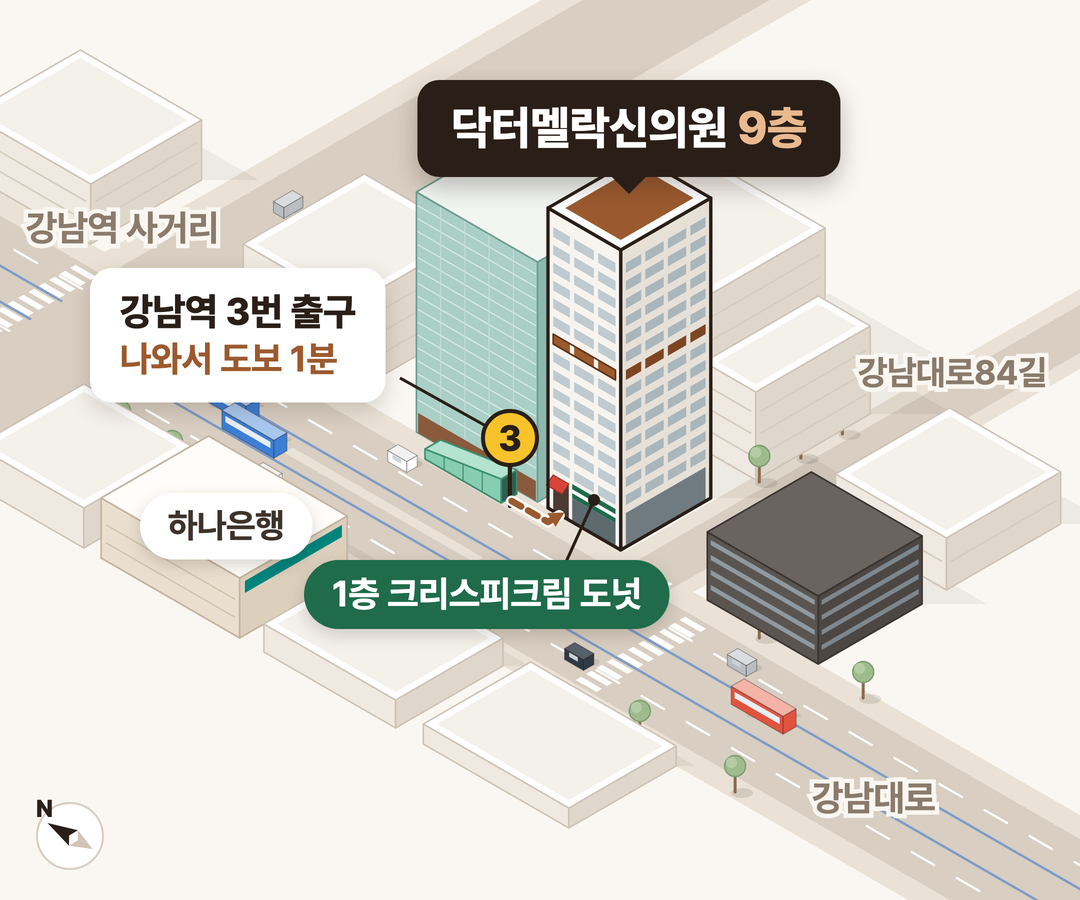
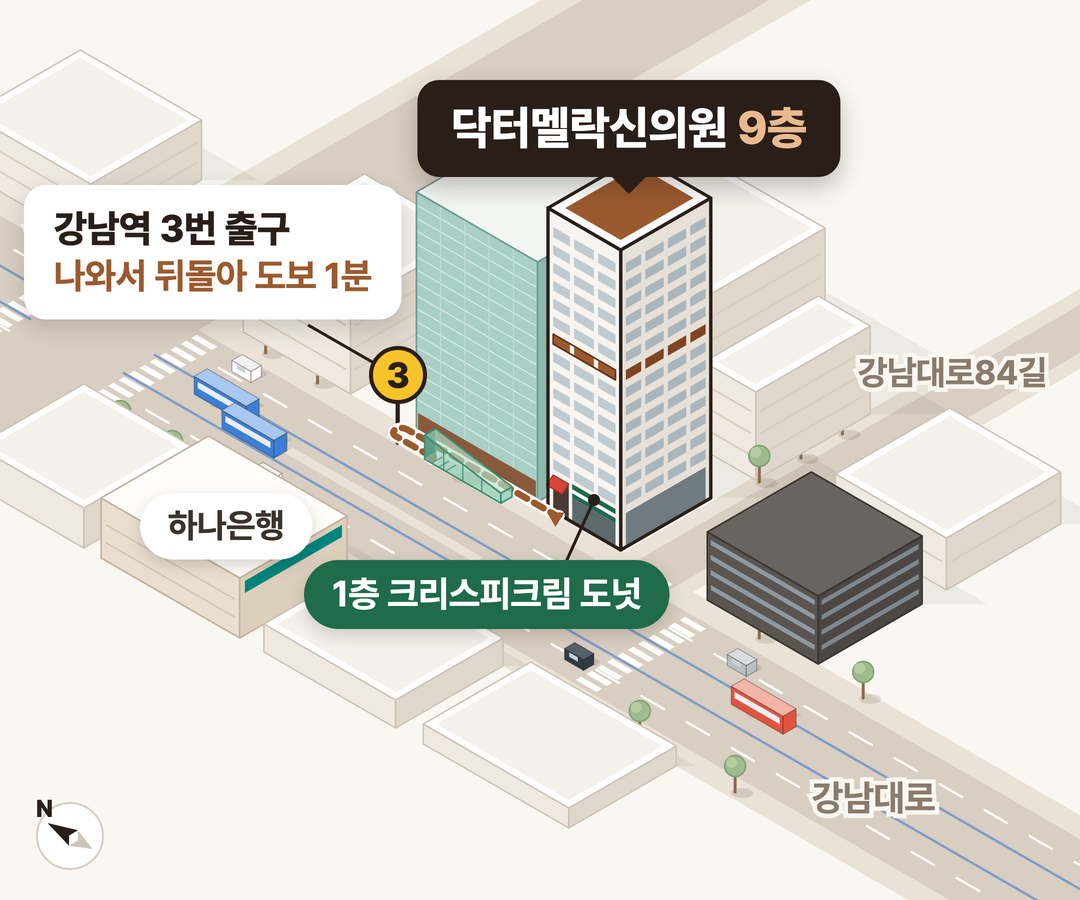
약도 3번 출구 방향 고친 판(나와서 뒤돌아), 그림 설명 글도

Changed region(s): [[0.0, 0.1867, 0.5194, 0.5911]]

diff --git a/lifting-2611/index.html b/lifting-2611/index.html
@@ -105,7 +105,7 @@
     <div class="map">
       <picture>
       <source srcset="../common/map.webp" type="image/webp">
-      <img src="../common/map.png" alt="닥터멜락신의원 약도 — 강남역 3번 출구에서 도보 1분, 강남대로 376 9층" width="1080" height="900" loading="lazy"
+      <img src="../common/map.png" alt="닥터멜락신의원 약도 — 강남역 3번 출구로 나와 뒤돌아 도보 1분, 강남대로 376 9층(1층 크리스피크림 도넛)" width="1080" height="900" loading="lazy"
            onerror="this.closest('.map').classList.add('nomap')">
       </picture>
       <div class="map-empty">약도 준비 중이에요</div>
